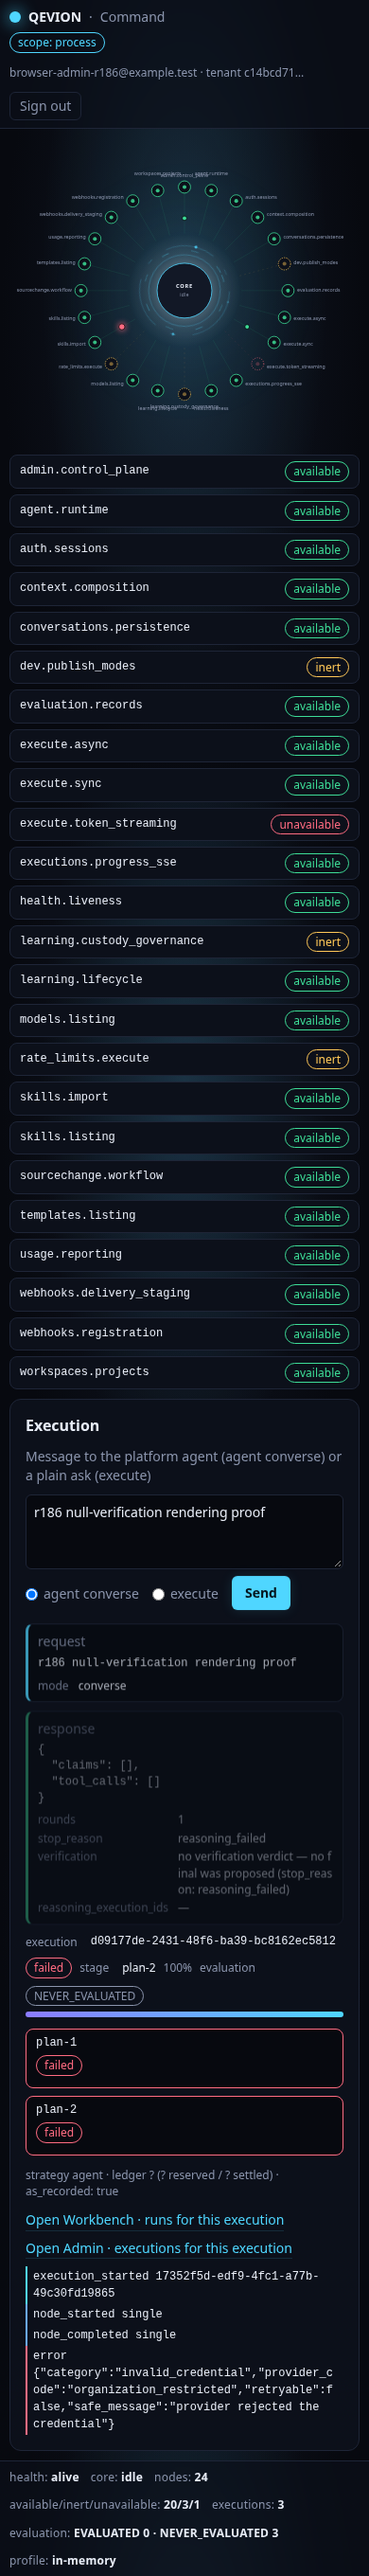
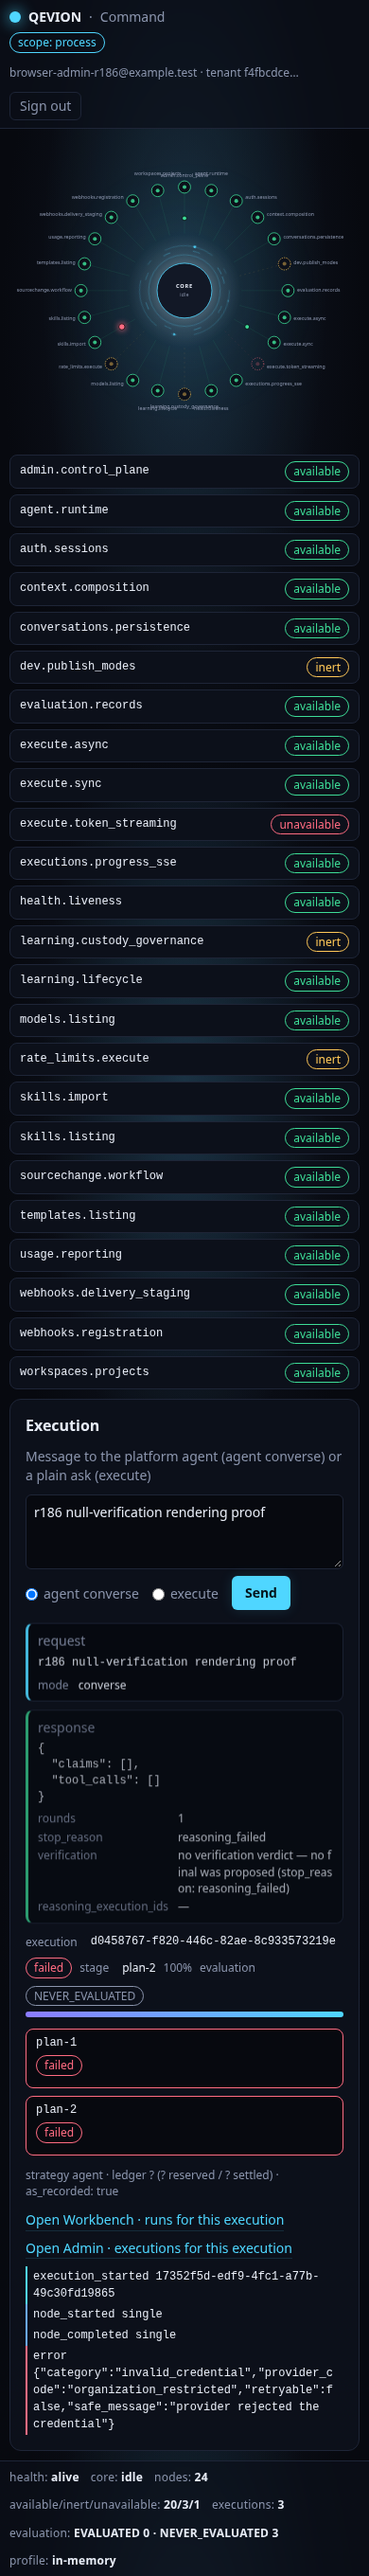
ui-recon CLOSURE (records only): UI-RECON-DEC-03 — PR #67 merged 0a135563 (operator ruling merge); post-merge fresh gate on main 0a135563 PASS 4047/0/0/64; ledger row 18; UI_RECON_POINTER; legacy browser-proof evidence regenerated by the gate run (declared §D)

diff --git a/docs/ai_orchestration_pack/final_docs_v3/60_DECISION_LOG.md b/docs/ai_orchestration_pack/final_docs_v3/60_DECISION_LOG.md
@@ -2305,3 +2305,10 @@ Tests (outside counted roots): `tests/providers/test_r190_logical_model_identity
 - **D. Findings fixed in-round:** (1) header overflowed at 390 px because the closed session `<details>` body still contributed layout width → `display:none` when closed + compact head tools (browser fact `K_no_horizontal_overflow` false→true). (2) A live sandbox key bound a real provider whose plan refusal surfaced as the verbatim `entitlement_exceeded` panel (`D0_live_provider_refusal.png`) — the shell rendered the honest failure; the journey is hermetic like `tests/ui` (keys unset).
 - **E. Gate of record:** worktree `d62edb21` `RESULT: PASS` passed=4047 failed=0 errors=0 skipped=64 (`evidence/ui_recon/gate_worktree_d62edb21.txt`); mypy --strict / ruff / import-linter / secret scan 5/5 / change budget `round_ui_recon_shell=0/0` PASS; ratchet `min_passed` 4016 → 4047 (+31). **ENV FINDING (recorded, not worked around):** a fresh venv now resolves SQLAlchemy 2.1.x, under which mypy --strict reports `infrastructure/db/learning.py:392 var-annotated` on unchanged `main ffb97453` as well — pre-existing/environmental, outside this UI-only round (core/apps/infrastructure frozen, ceiling 0); the gate of record used sqlalchemy 2.0.54 (within the declared `>=2.0`). An operator-owned follow-up may pin `<2.1` or annotate the line.
 - **F. NOT claimed / open:** live-provider success (all measured runs = hermetic local echo, labelled); agent run with tools (0 tools offered hermetically → honestly disabled); tenant-readable capability projection (OD-1 = B, not built); deletion of `ui/app`, `ui/app/command`, `ui/admin` (separate decision); Production Ready.
+
+### UI-RECON-DEC-03 — UI RECONSTRUCTION PROGRAM CLOSED: PR #67 merged (merge commit 0a135563); post-merge fresh gate on main PASS 4047/0/0/64; legacy UI retained; product status unchanged (2026-09-27)
+- **A. Merge:** operator ruling (verbatim) "merge" on the PR #67 decision gate → `ui_recon_shell` (head `df677f54`) → `main` by merge commit `0a135563` via the GitHub merge API (merge method = merge, as the convention requires). `main` before: `ffb97453`; the branch was a clean fast-forward, so the merge introduced no conflict resolution and no rebase.
+- **B. Post-merge gate (fresh sandbox, fresh venv, `main 0a135563`):** `RESULT: PASS (all repo governance checks)` — slices api 720/0/0/0, contract-providers 655/0/0/15, execution-composition-infra 554/0/0/49, admin-security-evaluation 466/0/0/0, rest 1652/0/0/0; total passed=4047 failed=0 errors=0 skipped=64 (== gate of record `d62edb21`, UI-RECON-DEC-02 §E); mypy --strict clean; ruff clean; import-linter clean; secret scan clean (5/5 declared exceptions); change budget every round within ceiling, `round_ui_recon_shell` 0/0; `min_passed` 4047 held (no further ratchet — the number did not move). Evidence: `evidence/ui_recon/gate_post_merge_0a135563.txt`. Chromium installed before the run (`playwright install chromium` + `install-deps`), so the fail-closed browser tests (3 new + legacy) actually executed.
+- **C. ENV caveat carried (recorded, not worked around):** the post-merge venv was pinned to `sqlalchemy>=2.0,<2.1` (resolved 2.0.54) exactly as the gate of record was, because SQLAlchemy 2.1.x makes mypy --strict report `infrastructure/db/learning.py:392` (var-annotated) on unchanged `main` (UI-RECON-DEC-02 §E, ledger row 14). Production is frozen in this program; the pin is an environment note for the operator, not a code change. mypy resolved 2.3.1 in this venv (1.20.2 at the gate of record) — clean in both.
+- **D. Side effect of the gate run (declared):** the legacy browser proof tests regenerate their own evidence files on every run (`evidence/r182_impl/*`, `evidence/r185/*`, `evidence/r186/*`, `evidence/r187/*` — 12 files: execution ids inside JSON facts and PNG re-captures). Same behaviour and same handling as COMPLETION-V2 closure (PR #66): committed as regenerated proof artefacts in this records-only closure; no test or UI file changed.
+- **E. Final status of the program:** unified shell served at `/app/shell/` (14 files under `ui/app/shell/`, pure ES modules, one transport, hash routing) alongside the untouched legacy UI (`ui/app`, `ui/app/command`, `ui/admin` — deletion remains a SEPARATE operator decision per OD-2). OD-1 = B held (non-admin Command renders no capability topology; admin topology is 1:1 from `/v1/admin/capabilities`). OD-3 held: `ui/app/shell/api.js` `/v1/` ceiling frozen at 32 (down-only). Production diff for the whole program: 0 (`core/ apps/ infrastructure/`). NOT VERIFIED (unchanged): live-provider 200 (the recorded live-provider run was a 403 `entitlement_exceeded` plan refusal, rendered verbatim — D0 screenshot); live agent run with tools. NOT CLAIMED: Production Ready (D-03 / N-9 operator-owned-open unchanged); the App Factory remains PLANNING ONLY (no generate/build/deploy/publish controls exist in the shell). Branch `ui_recon_shell` may be deleted per the compare rule. **No follow-up round is pre-approved.**

diff --git a/docs/ai_orchestration_pack/PROJECT_EXECUTION_STATE.md b/docs/ai_orchestration_pack/PROJECT_EXECUTION_STATE.md
@@ -742,6 +742,25 @@ NEXT: none pre-approved.
 ```
 
 ```
+UI_RECON_POINTER (2026-09-27) — UI RECONSTRUCTION PROGRAM CLOSED (discovery-only → design freeze → operator rulings OD-1=B / OD-2 APPROVED / OD-3 CONFIRMED → implementation; UI-only round from main ffb97453; production ceiling 0 used 0)
+MAIN: 0a135563 (PR #67 merge commit, operator ruling "merge") + this records-only closure. GATES: gate of record d62edb21 PASS 4047/0/0/64 (min_passed 4016 -> 4047); post-merge fresh gate on main 0a135563 PASS 4047/0/0/64 (evidence/ui_recon/gate_post_merge_0a135563.txt).
+STATUS: CLOSED — UI-RECON-DEC-01 (rulings), DEC-02 (delivery), DEC-03 (closure).
+DELIVERED: ONE unified shell at /app/shell/ (ui/app/shell/: index.html, shell.css, shell.js, api.js, router.js, context.js, components.js, pages/{auth,command,work,runs,build,intelligence,control}.js)
+       under the EXISTING /app StaticFiles mount (backend mounting unchanged); hash routing; ONE transport (api.js: Accept, X-Requested-With: QEVION, same-origin cookie, 401 → /auth?next=);
+       six sections Command · Work · Build · Intelligence · Runs · Control (Control only when session.is_admin === true; server 401/403/404 authoritative and rendered verbatim);
+       MODEL-FIRST UX (one row per logical Model.id from GET /v1/models; providers[]/runtime[] behind Advanced); Normal/Advanced disclosure; App Factory PLANNING ONLY (app_factory.plan@1 — no generate/build/deploy/publish controls);
+       admin control plane rendered 1:1 from served records (capabilities 24 ids, actions 17 with generated forms, changes/source lifecycle strips, notifications derived read-model, engineering routes 404 → NOT AVAILABLE).
+GUARDS: green_manifest ui_shell_static_check (14 files; /v1/ ONLY in api.js, ceiling frozen at measured 32 per OD-3, down-only; one fetch(; no framework/CDN/localStorage/fabricated-state/capability-roster markers);
+       tests/ui/test_shell_recon_guard.py 34 (RED fail-closed → GREEN); tests/ui/test_shell_recon_browser.py 3 (REAL Chromium, fail-closed: user journey, admin control plane, mobile 390).
+EVIDENCE: evidence/ui_recon/ (ledger.md rows 0–18, red_guard.txt, green_guard_static.txt, gate_worktree_d62edb21.txt, gate_post_merge_0a135563.txt, browser_journey.py.txt, browser/facts.json + 13 PNGs).
+FINDINGS (fixed in-round, recorded): 390px horizontal overflow (closed session menu width) → CSS; journey made hermetic after a live-provider 403 entitlement_exceeded plan refusal (rendered verbatim, D0 PNG).
+ENV NOTE: SQLAlchemy 2.1.x makes mypy --strict flag infrastructure/db/learning.py:392 on unchanged main (pre-existing); gates run with sqlalchemy 2.0.54 (declared >=2.0). Not worked around (production frozen) — operator-visible.
+LEGACY: ui/app, ui/app/command, ui/admin UNTOUCHED — deletion is a SEPARATE operator decision (OD-2). core/ apps/ infrastructure/ diff 0 across the whole program.
+NOT VERIFIED (unchanged): live-provider 200; live agent run with tools. NOT CLAIMED: Production Ready (D-03 / N-9 operator-owned-open unchanged).
+NEXT: none pre-approved. Next session starts from main, reads this pointer + evidence/ui_recon/ledger.md row 18, and does NOT start any round without an operator APPROVE recorded in 60_DECISION_LOG.md.
+```
+
+```
 R202_POINTER (2026-09-23) — R202 CLOSED (Templates + App Factory UX; UI-only layer A/B; ceiling 0 used 0; app.js /v1/ 22 -> 23 by declaration)
 MAIN: 5ac352be (PR #62 merge commit) + records-only closure PR.
 DELIVERED (R202-A, ACCEPTED-AS-MEASURED): Workbench detail panel reads GET /v1/templates/{ref} exactly once per choice (change + restored context; never at boot; none for 'none')

diff --git a/evidence/ui_recon/ledger.md b/evidence/ui_recon/ledger.md
@@ -20,3 +20,4 @@
 | 15 | 2026-09-27 | GATE OF RECORD (worktree d62edb21): RESULT: PASS passed=4047 failed=0 errors=0 skipped=64; mypy/ruff/import-linter/secret scan PASS; round_ui_recon_shell 0/0; ratchet min_passed 4016 → 4047 | this commit |
 | 16 | 2026-09-27 | UI-RECON-DEC-02 recorded; origin/main still ffb97453 (branch is a fast-forward, no rebase); PR opened | this commit |
 | 17 | 2026-09-27 | PR #67 opened ui_recon_shell → main (https://github.com/belalalibb/general_ai_core/pull/67); head 95ccbecb; awaiting operator merge decision (merge by merge commit, then post-merge gate per convention) | this commit |
+| 18 | 2026-09-27 | OPERATOR RULING "merge" → PR #67 merged by merge commit 0a135563 (main ffb97453 → 0a135563); POST-MERGE fresh gate on main 0a135563 (fresh venv, sqlalchemy 2.0.54 pin per row 14, Chromium installed): RESULT: PASS passed=4047 failed=0 errors=0 skipped=64; mypy/ruff/import-linter/secret scan PASS; round_ui_recon_shell 0/0; min_passed 4047 held; legacy browser-proof evidence regenerated (12 files, declared in DEC-03 §D); UI-RECON-DEC-03 recorded; pointer added — PROGRAM CLOSED | gate_post_merge_0a135563.txt; this commit |
